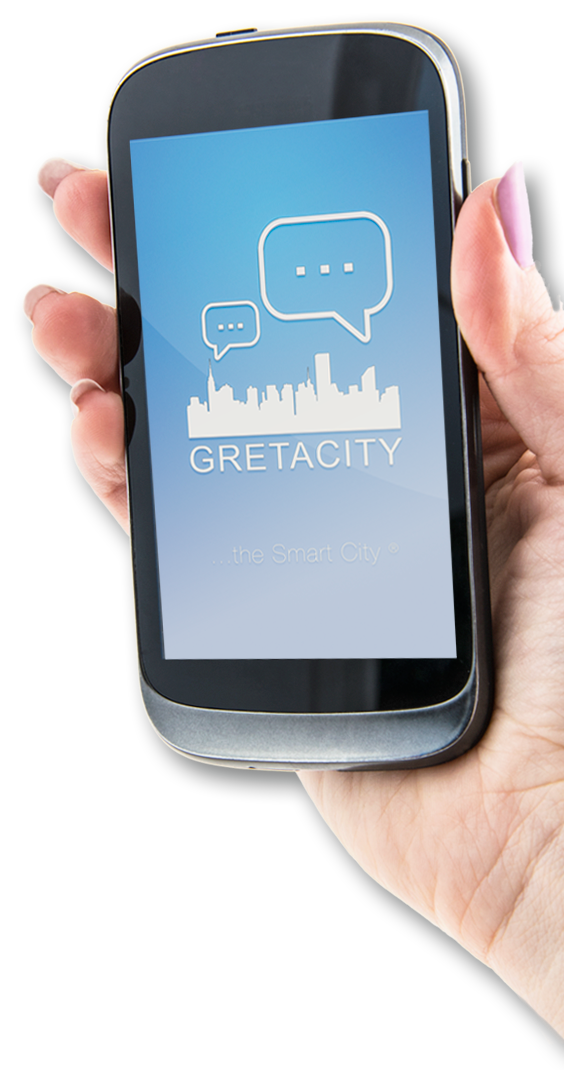
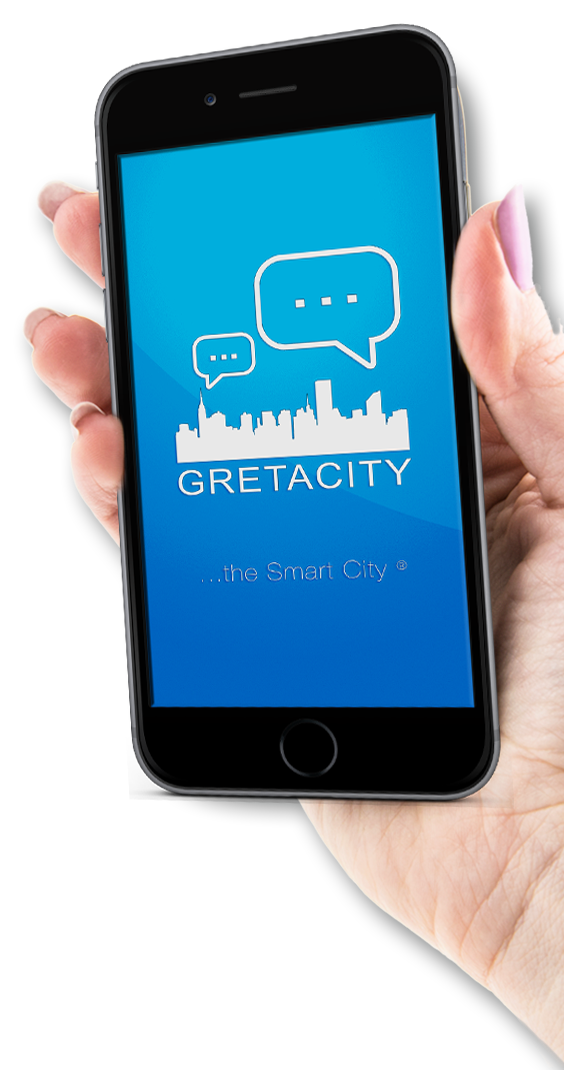
Primo commit

diff --git a/www/index.html b/www/index.html
@@ -383,7 +383,7 @@
                         </a>
                     </div>
                     <div class="ui-block-b">
-                        <img src="img/Mano.png" style="float:right;width:100%;max-width:20em;" />
+                        <img src="img/Mano_ANDROID.png" style="float:right;width:100%;max-width:20em;" />
                     </div>
                     <div class="ui-block-a">
                         <a href="#newsPage" data-transition="slide" class="ui-btn ui-btn-primary">
